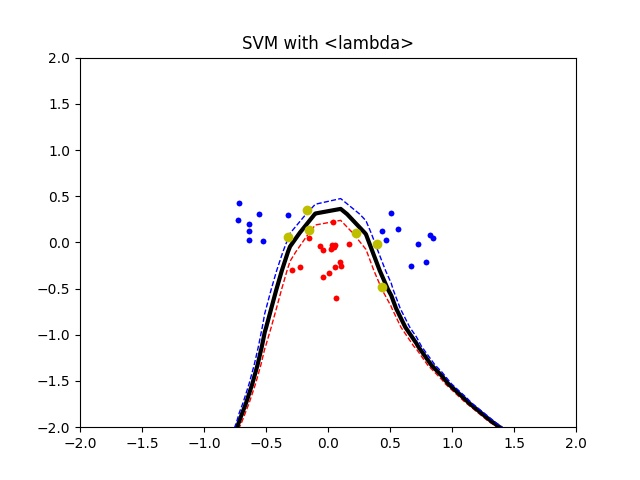
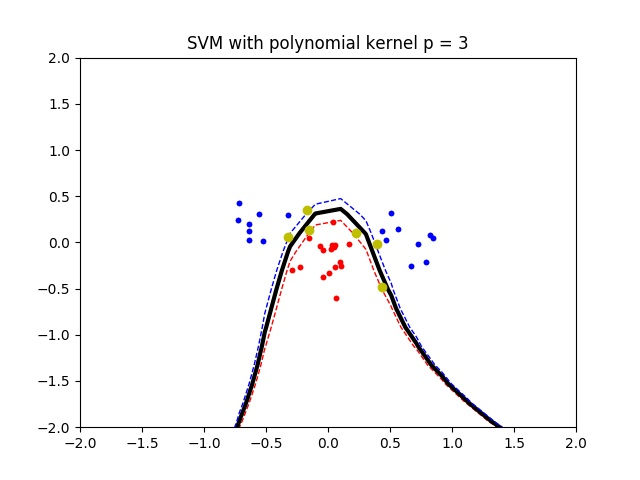
fix titles in plots of non-linear kernels

Changed region(s): [[0.2812, 0.0625, 0.6875, 0.125], [0.7188, 0.0625, 0.75, 0.0938]]

diff --git a/Lab 2/Lab2/lab2.py b/Lab 2/Lab2/lab2.py
@@ -111,7 +111,7 @@ def ind(y):
 
 # choose kernel
 # K = linear_kernel
-# p = 3
+# p = 10
 # K = lambda x, y: polynomial_kernel(x, y, p)
 sigma = 0.3
 K = lambda x, y: radial_kernel(x, y, sigma)
@@ -171,7 +171,9 @@ plt.contour(xgrid, ygrid, grid,
 
 # configure
 plt.axis([-2, 2, -2, 2])
-plt.title('SVM with ' + K.__name__.replace('_', ' '))
+# plt.title('SVM with ' + K.__name__.replace('_', ' '))
+# plt.title('SVM with polynomial kernel p = {}'.format(p))
+plt.title('SVM with radial kernel sigma = {}'.format(sigma))
 
 # save and show plot
 plt.savefig('plots/' + K.__name__ + '_{}.jpg'.format(instance))
